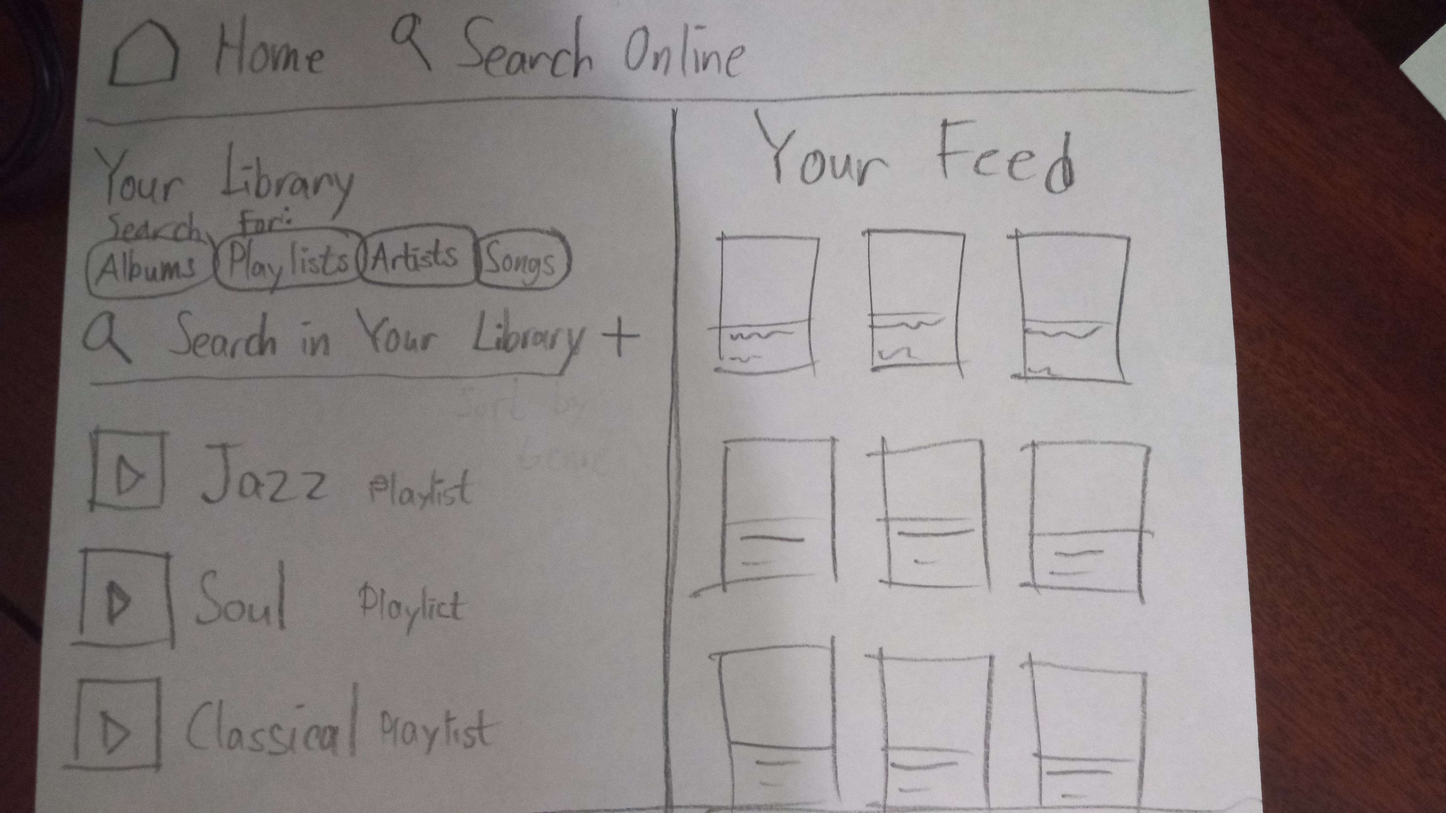
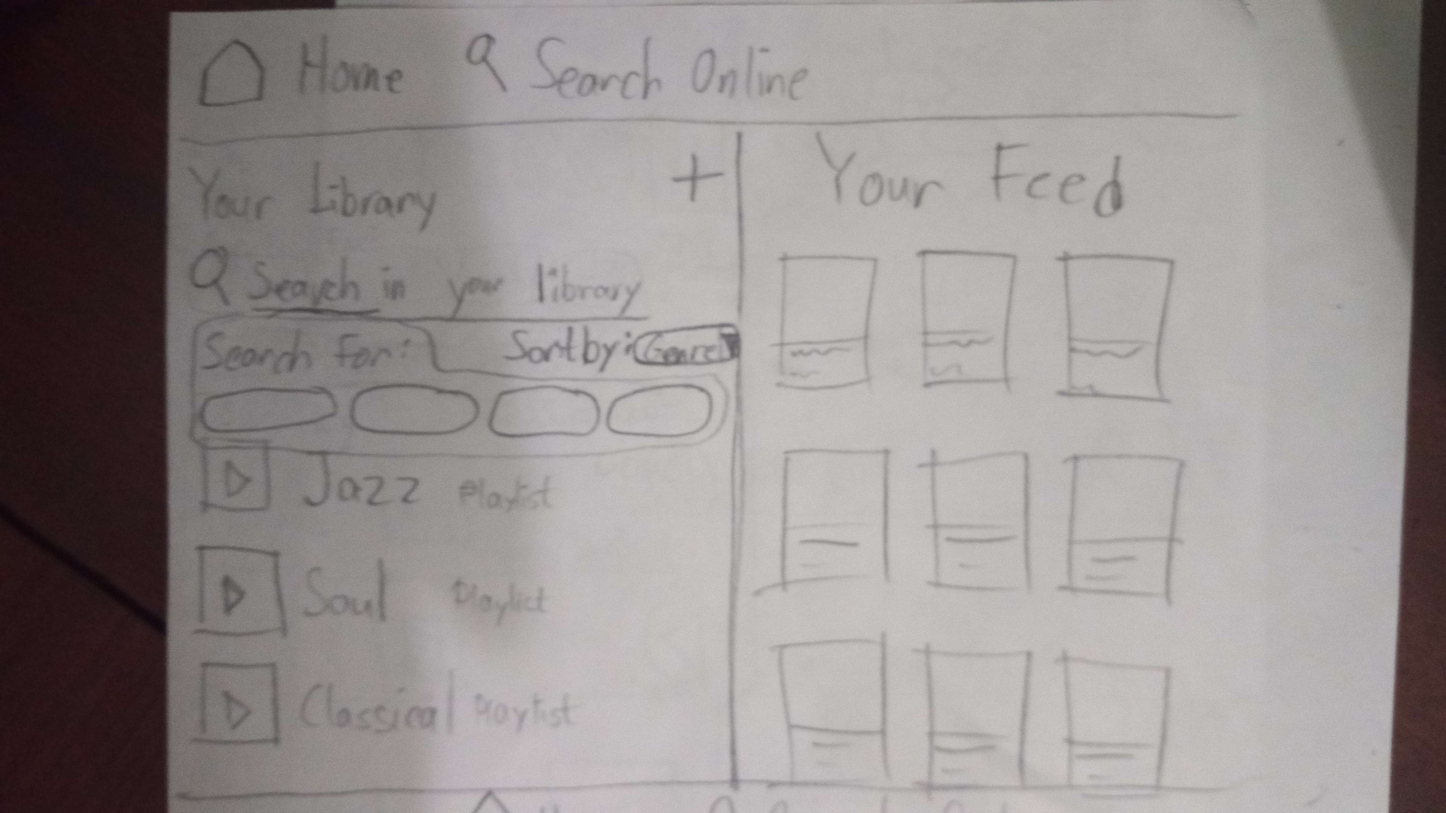
Add better graphs

diff --git a/designer_language/research.md b/designer_language/research.md
@@ -88,6 +88,7 @@ I've finally decided to
 - Add an ``Add to Your Library...`` button on a song result in Soptify's public search results, and not just in the playlist, **to make it easier for her to add it**
 - Add two ways to add a song in a library: search for songs online, or use songs already in ``Your Library`` (**I just realized that this may make copies of songs, making them repeat while playing them, which may be annoying. This
 change may be removed in the prototype.**)
+- Move ``Your Feed`` together with the header
 
 ### Mockups
 <img src="chosen_idea_1.jpg">
@@ -102,3 +103,6 @@ Sort by genre is an option in both search results in ``Your Library`` and in pla
 (The sorting method should affect both the playlist and the playist's search results. IT SHOULD NOT BE PERMANENTLY CHANGING THE ORDER THAT THEY'RE STORED IN)
 <img src="chosen_idea_2.jpg">
 The ``+`` button should expand the two search queries at the right.
+
+## Why did I choose these ones?
+I thought they would give more control, express purpose clearly, allow Regina to find and add songs to her library easier.
